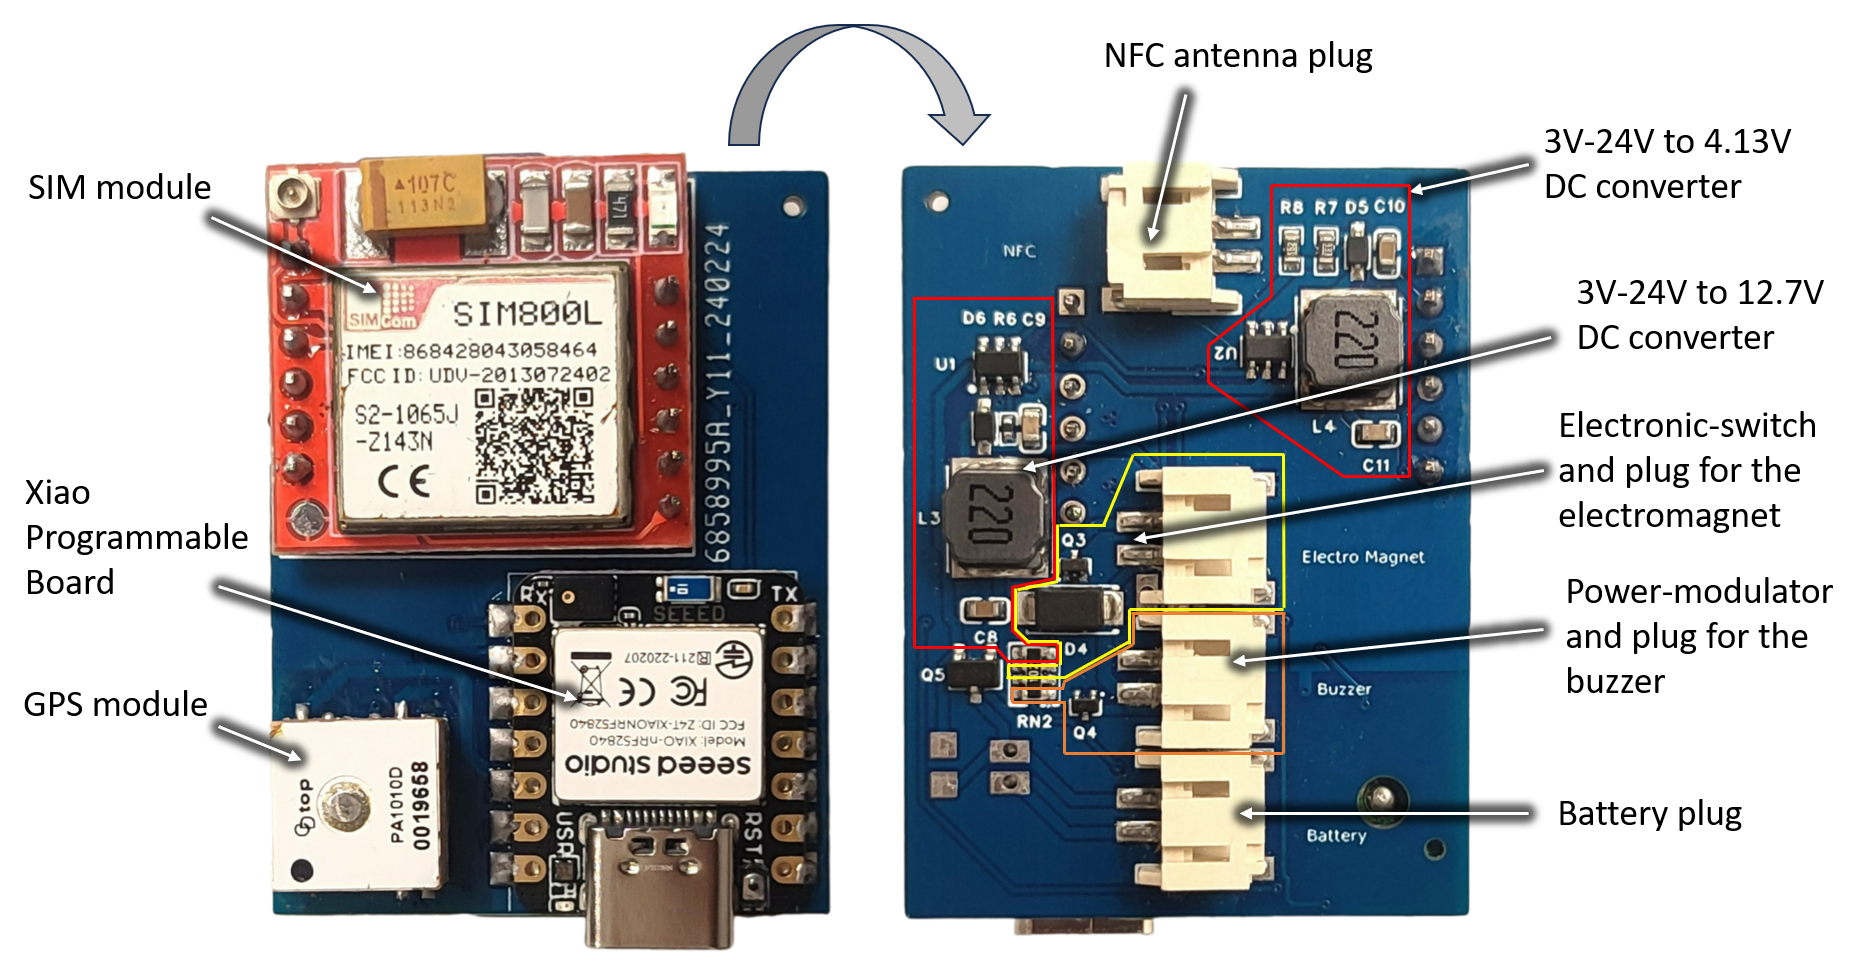
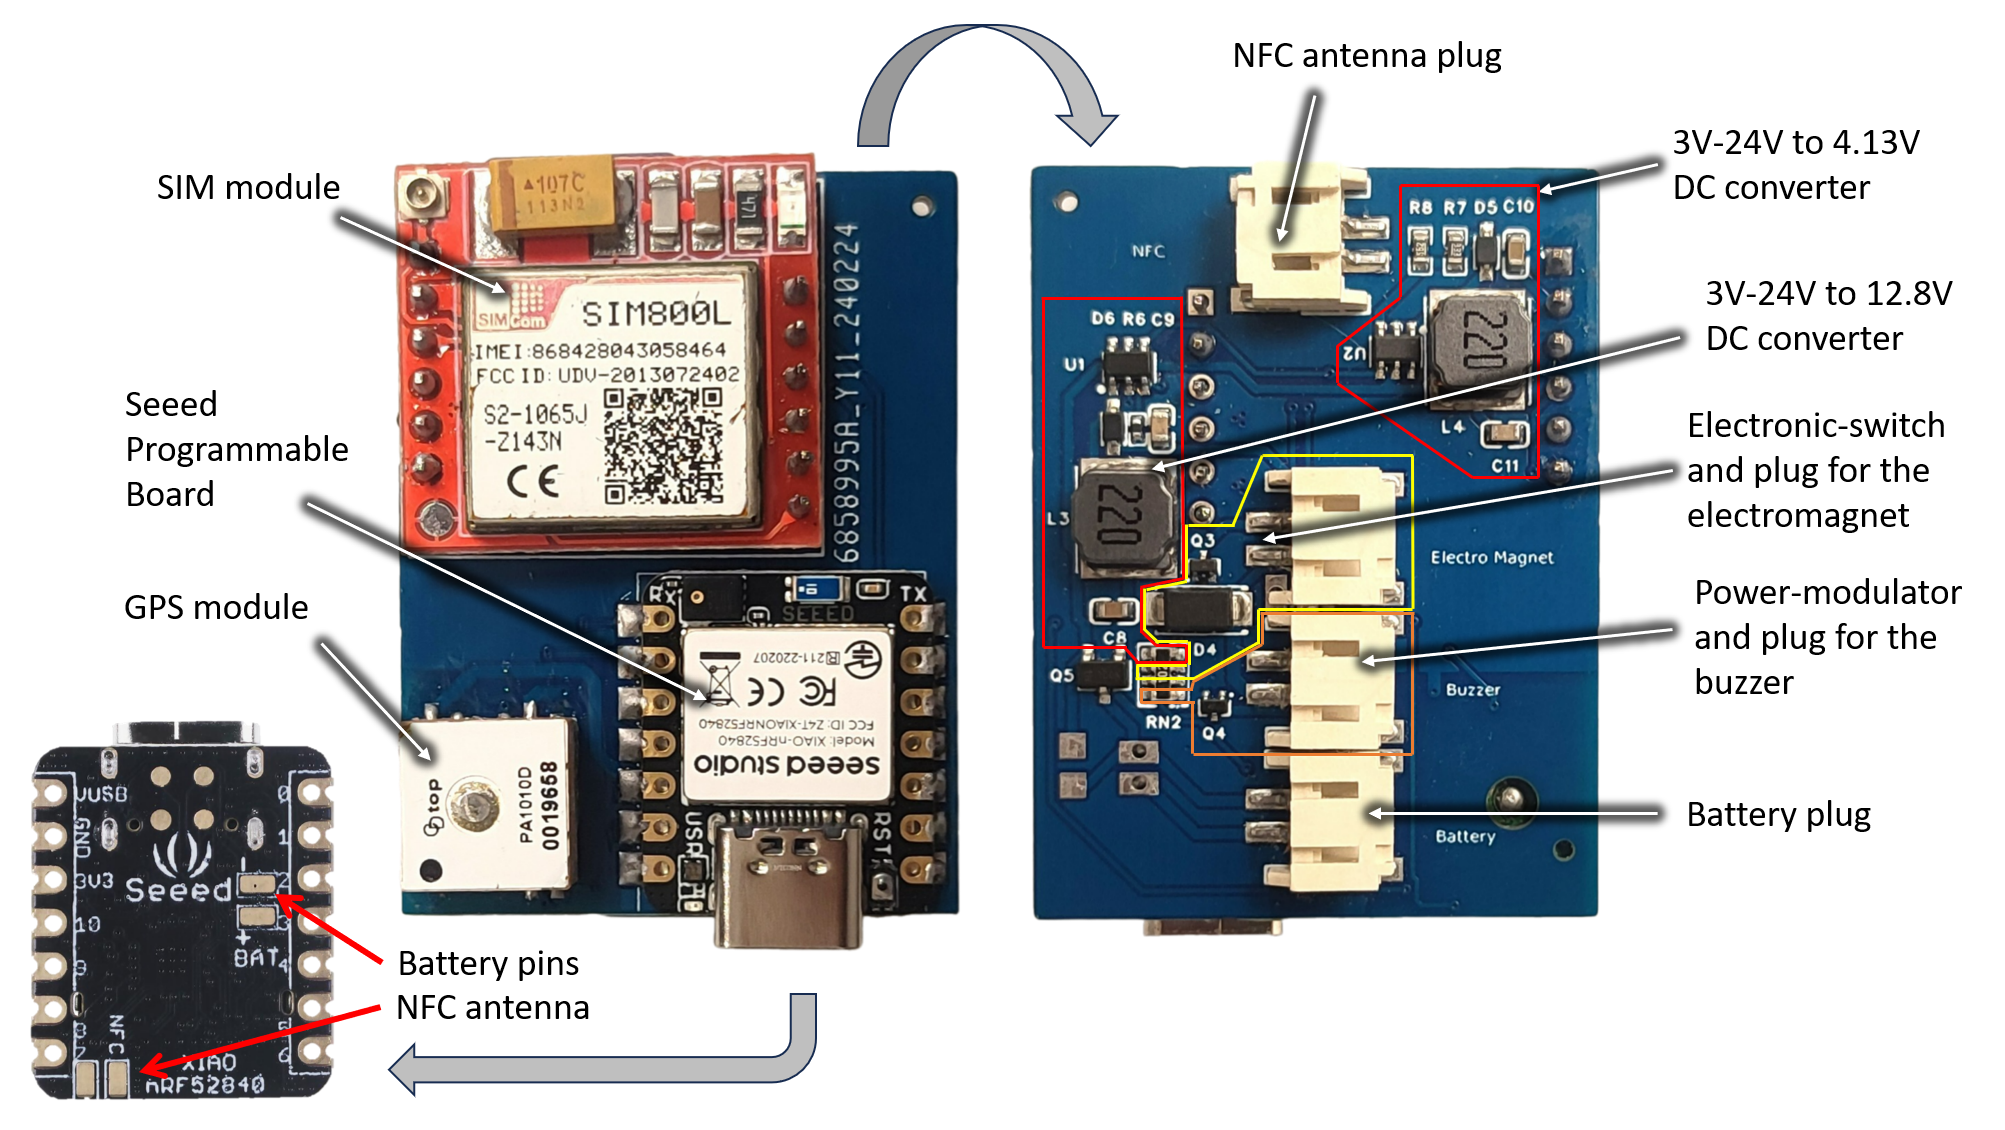
project overview explained

diff --git a/documents/technical-specifications/technical-specification.md b/documents/technical-specifications/technical-specification.md
@@ -27,12 +27,11 @@ Algosup - Team 5 - Project n°4 - Sport Shield
 - [Glossary](#glossary)
 - [Project Overview](#project-overview)
   - [Project Brief](#project-brief)
-  - [Hardware provided](#hardware-provided)
-  - [Documentation for this project](#documentation-for-this-project)
-      - [Documentation about the programmable board](#documentation-about-the-programmable-board)
-      - [Documentation about the different components connected to the Xiao board.](#documentation-about-the-different-components-connected-to-the-xiao-board)
-      - [Electronic circuit diagram of the whole device](#electronic-circuit-diagram-of-the-whole-device)
-  - [Software Provided](#software-provided)
+  - [Hardware](#hardware)
+  - [Software](#software)
+  - [Ressources](#ressources)
+    - [Documentation about components](#documentation-about-components)
+      - [Electronic circuit diagrams](#electronic-circuit-diagrams)
 
 
 </details>
@@ -68,7 +67,9 @@ To stop the alarm or unlock the shield, the owner uses the application and it pr
 Also, during the locked period, the device will send regularly the GPS position and battery level by the 2G network, to a remote server communicating with the app.
 The aim is to make the sports shield as rustic and resilient as possible, minimizing direct user interactions with the hardware and keeping them remote, via the Bluetooth app.
 
-## Hardware provided
+The company who gave us this project, explained all of it during a presentation at the very beginning. Here is the [PDF of the presentation](files/SportShield-project-Brief-AlgoSup-Embedded-software-optimization.pdf).
+
+## Hardware
 
 This project is not about the entire conception of the device from scratch. To be able to develop the firmware of the device we needed only the electronic and informatic parts of the project being developed. Thus, we received :
 
@@ -90,22 +91,29 @@ This project is not about the entire conception of the device from scratch. To b
   - **SIM card** : a 2G nano-SIM in its micro-SIM adaptator, pluggable in the SIM holder
 <img src = "files/components.png">
 
-## Documentation for this project
+## Software
 
-The state of the project before the project had been summaried in [this PDF](files/SportShield-project-Brief-AlgoSup-Embedded-software-optimization.pdf)
+This project uses C/C++ through the Arduino® IDE, to develop the firmware of the Seeed board.  
+The company gave us their first version of the software they coded, which includes all the features explained in [their presentation](files/SportShield-project-Brief-AlgoSup-Embedded-software-optimization.pdf), and in the [Functional Specifications](https://github.com/algosup/2023-2024-project-4-sportshield-team-5/blob/main/documents/functional-specification/functional-specification.md).
 
-For the Hardware, we received the documentation of each component and the scheme of the electronic circuit :
+The usage of public libraries is allowed.
 
-#### Documentation about the programmable board
-- [*Xiao NRF52840 sense* electronic architechture](files/Seeed-Studio-XIAO-nRF52840-Sense-v1.1.pdf)
-- [*Xiao NRF52840 sense* pinout](files/xiao-nrf52840-pinout.jpg)
+## Ressources
+
+For the Hardware, we received some documentation about the components and also the old schematics of the electronic circuit :
+
+### Documentation about components
+- [*Xiao NRF52840 sense* electronic architechture](files/Seeed-Studio-XIAO-nRF52840-Sense-v1.1.pdf) *(provided by the company)*
 - [NRF52840 microcontroller datasheet](files/nRF52840-PS-v1.5.pdf)
-#### Documentation about the different components connected to the Xiao board.
-- [GPS module datasheet](files/CD-PA1010D-datasheet-v.02.pdf)
-- [SIM module datasheet](files/SIM800L-SIMCom.pdf)
-- [Li-Po Battery datasheet](files/batterie-LP603449.pdf)
-#### Electronic circuit diagram of the whole device
-- [SportShield's easyEDA schematic](files/SportShield-Electronics-diagram.png)  
-  !!! This diagram is not up to date, there is another electronic switch (a mosfet) missing and the NFC is now pluggable on the board.
-## Software Provided
+- [GPS module datasheet](files/CD-PA1010D-datasheet-v.02.pdf) *(provided by the company)*
+- [SIM module datasheet](files/SIM800L-SIMCom.pdf) *(provided by the company)*
+- [Li-Po Battery datasheet](files/batterie-LP603449.pdf) *(provided by the company)*
 
+![gps, SIM, and seeed pinout](files/main-components-pinout.png)
+#### Electronic circuit diagrams
+The power management of the board follows this diagram :
+![Power management diagram](files/power_diagram.png)
+Here, the connectics for the Seeed Board, the SIM module and the GPS module :
+![SIM, GPS, and Seeed board connectics](files/easyEDA-connectics.png)([easyEDA sketch here](files/easyEDA-connectics.json))  
+
+If you want to dive into the electronic circuits of the PCB, there is the [PCB circuit schematic](files/SportShield-Electronics-diagram.png) provided by the company. However, this scematic is not up to date. The most important is the absence of the Q5 MOSFET used to cut the battery to other components using the control pin D9.
